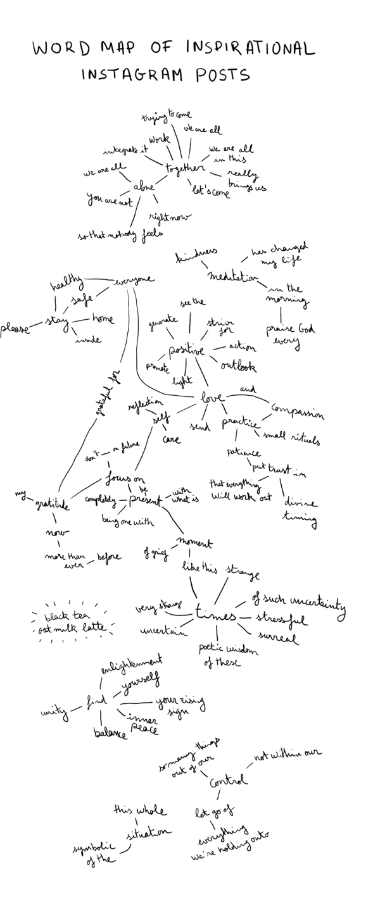
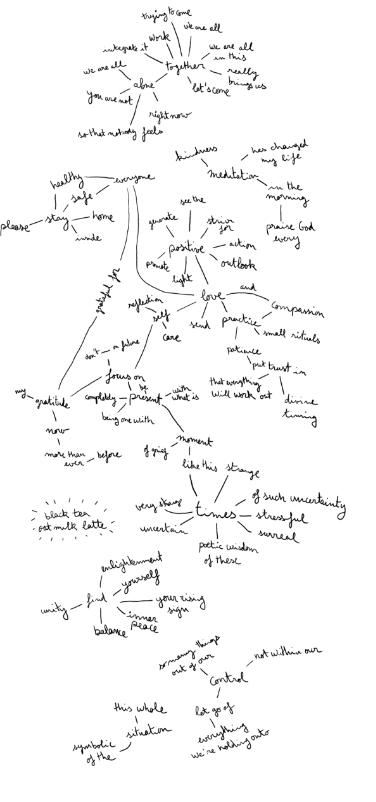
add breakpiont to <InstagramPOstMap> to conditionally render mobile image

diff --git a/src/issues/issue-1/instagram-post-map.js b/src/issues/issue-1/instagram-post-map.js
@@ -4,6 +4,7 @@ import { useStaticQuery, graphql } from "gatsby"
 import { useMediaQuery } from "react-responsive"
 
 import { PaddedWidthContainer, breakpoints } from "../../styles/layout"
+import { H2 } from "../../styles/text"
 import { findFileByName } from "../../utils"
 
 const InstagramPostMap = () => {
@@ -29,7 +30,18 @@ const InstagramPostMap = () => {
   })
 
   const desktopImage = findFileByName(data, "desktop")
-  const mobile = findFileByName(data, "mobile")
+  const mobileImage = findFileByName(data, "mobile")
+  const mobileTitleImage = findFileByName(data, "mobile-title")
+
+  if (isPhoneWide) {
+    return (
+      <PaddedWidthContainer>
+        <Img fluid={mobileTitleImage.node.childImageSharp.fluid} />
+        <H2 center>about the pandemic</H2>
+        <Img fluid={mobileImage.node.childImageSharp.fluid} />
+      </PaddedWidthContainer>
+    )
+  }
 
   return (
     <PaddedWidthContainer>
